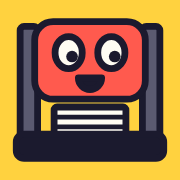
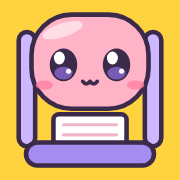
Nuova mascotte kawaii con occhioni, in pagina e nelle icone
Claude-Session: https://claude.ai/code/session_01689rCLuyPpbyDNmNETSVPZ

diff --git a/index.html b/index.html
@@ -54,21 +54,15 @@ h1 span{color:var(--sun)}
 .sub{margin:14px 0 0;font-weight:700;max-width:34ch}
 
 /* mascotte: la pressa */
-.press{flex:0 0 150px;height:150px;position:relative}
-.press .pillar{position:absolute;top:0;bottom:16px;width:14px;background:var(--muted);border:var(--line);border-radius:4px}
-.press .pillar.l{left:8px}.press .pillar.r{right:8px}
-.press .base{position:absolute;left:0;right:0;bottom:0;height:20px;background:var(--ink);border-radius:6px}
-.press .head{position:absolute;left:20px;right:20px;top:6px;height:66px;background:var(--tomato);border:var(--line);border-radius:14px;box-shadow:inset -8px -8px 0 rgba(27,26,46,.18)}
-.press .eye{position:absolute;top:18px;width:22px;height:26px;background:var(--paper);border:var(--line);border-radius:50%}
-.press .eye::after{content:"";position:absolute;left:6px;top:9px;width:8px;height:9px;background:var(--ink);border-radius:50%}
-.press .eye.l{left:22px}.press .eye.r{right:22px}
-.press .mouth{position:absolute;left:50%;top:44px;width:22px;height:11px;margin-left:-11px;border:var(--line);border-top:0;border-radius:0 0 14px 14px;background:var(--ink)}
-.press .sheets{position:absolute;left:36px;right:36px;bottom:20px;height:44px;background:
-  repeating-linear-gradient(var(--paper) 0 8px,var(--ink) 8px 11px);border:var(--line);border-radius:4px;transform-origin:bottom}
-.press.busy .head{animation:stomp .55s cubic-bezier(.6,0,.9,.4) infinite alternate}
-.press.busy .sheets{animation:squash .55s cubic-bezier(.6,0,.9,.4) infinite alternate}
-@keyframes stomp{to{transform:translateY(34px)}}
-@keyframes squash{to{transform:scaleY(.24)}}
+.press{flex:0 0 150px;line-height:0}
+.press svg{width:150px;height:auto;display:block;overflow:visible}
+.press .p-sheets{transform-box:fill-box;transform-origin:50% 100%}
+.press .p-spark{transform-box:fill-box;transform-origin:center;animation:twinkle 2.4s ease-in-out infinite}
+.press.busy .p-head{animation:stomp .55s cubic-bezier(.6,0,.9,.4) infinite alternate}
+.press.busy .p-sheets{animation:squash .55s cubic-bezier(.6,0,.9,.4) infinite alternate}
+@keyframes twinkle{50%{transform:scale(.6) rotate(20deg);opacity:.6}}
+@keyframes stomp{to{transform:translateY(52px)}}
+@keyframes squash{to{transform:scaleY(.26)}}
 
 /* pannelli */
 .panel{background:var(--paper);border:var(--line);border-radius:22px;box-shadow:var(--drop);padding:20px}
@@ -140,7 +134,7 @@ h1 span{color:var(--sun)}
 details{font-size:15px}
 details summary{cursor:pointer;font-weight:700}
 details p{margin:8px 0 0;max-width:65ch}
-@media (prefers-reduced-motion:reduce){.press.busy .head,.press.busy .sheets{animation:none}.btn,.tray{transition:none}}
+@media (prefers-reduced-motion:reduce){.press.busy .p-head,.press.busy .p-sheets,.press .p-spark{animation:none}.btn,.tray{transition:none}}
 </style>
 </head>
 <body>
@@ -148,12 +142,16 @@ details p{margin:8px 0 0;max-width:65ch}
   <header class="top">
     <div class="brand">
     <div class="press" id="press" aria-hidden="true">
-      <div class="pillar l"></div><div class="pillar r"></div>
-      <div class="sheets"></div>
-      <div class="head"><div class="eye l"></div><div class="eye r"></div><div class="mouth"></div></div>
-      <div class="base"></div>
+      <svg viewBox="70 62 400 390" xmlns="http://www.w3.org/2000/svg"><g stroke="#3b2a4a" stroke-width="10" stroke-linejoin="round" stroke-linecap="round">
+<rect x="100" y="150" width="36" height="250" rx="18" fill="#cdb8ff"/><rect x="376" y="150" width="36" height="250" rx="18" fill="#cdb8ff"/>
+<g class="p-sheets"><rect x="176" y="330" width="160" height="70" rx="12" fill="#fff"/><path d="M198 353h116M198 375h116" fill="none" stroke="#f0b6c8" stroke-width="7"/></g>
+<rect x="84" y="392" width="344" height="50" rx="25" fill="#a48cf0"/></g>
+<g class="p-head"><rect x="128" y="112" width="256" height="206" rx="88" fill="#ffb3c7" stroke="#3b2a4a" stroke-width="10"/><ellipse cx="196" cy="146" rx="46" ry="15" fill="#fff" opacity=".55" transform="rotate(-18 196 146)"/>
+<ellipse cx="198" cy="222" rx="30" ry="36" fill="#3b2a4a"/><ellipse cx="198" cy="240" rx="20" ry="14" fill="#8f6bd9" opacity=".75"/><ellipse cx="189" cy="207" rx="12" ry="14" fill="#fff"/><circle cx="209" cy="236" r="5.5" fill="#fff"/><ellipse cx="314" cy="222" rx="30" ry="36" fill="#3b2a4a"/><ellipse cx="314" cy="240" rx="20" ry="14" fill="#8f6bd9" opacity=".75"/><ellipse cx="305" cy="207" rx="12" ry="14" fill="#fff"/><circle cx="325" cy="236" r="5.5" fill="#fff"/>
+<ellipse cx="156" cy="266" rx="19" ry="10" fill="#ff7fa3" opacity=".8"/><ellipse cx="356" cy="266" rx="19" ry="10" fill="#ff7fa3" opacity=".8"/>
+<path d="M240 258q8 11 16 0q8 11 16 0" fill="none" stroke="#3b2a4a" stroke-width="8" stroke-linecap="round" stroke-linejoin="round"/></g><path class="p-spark" d="M424 84l7 17l17 7l-17 7l-7 17l-7 -17l-17 -7l17 -7z" fill="#fff6a8" stroke="#3b2a4a" stroke-width="6" stroke-linejoin="round"/></svg>
     </div>
-    <div class="langbar">
+      <div class="langbar">
       <label class="vh" for="lang" data-i18n="lang">Lingua</label>
       <button class="btn sm ok" type="button" id="installBtn" hidden data-i18n="install">Installa l'app</button>
       <button class="btn sm alt snd" type="button" id="muteBtn" aria-pressed="true" aria-label="Suoni" data-i18n-aria="sound">
